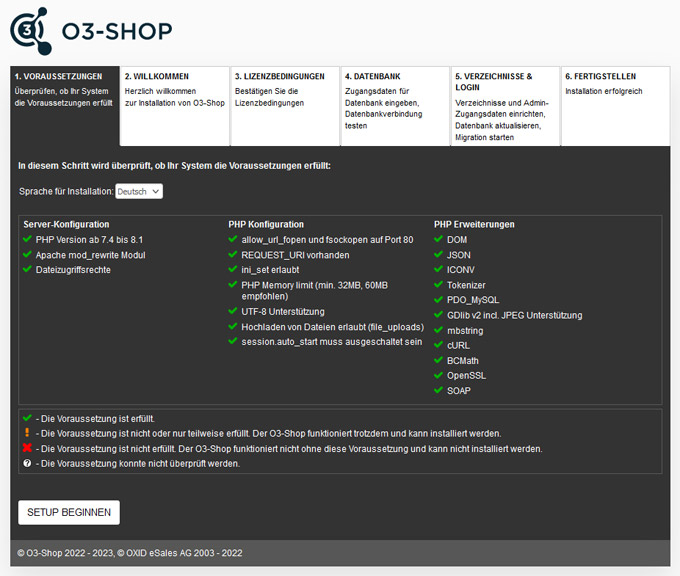
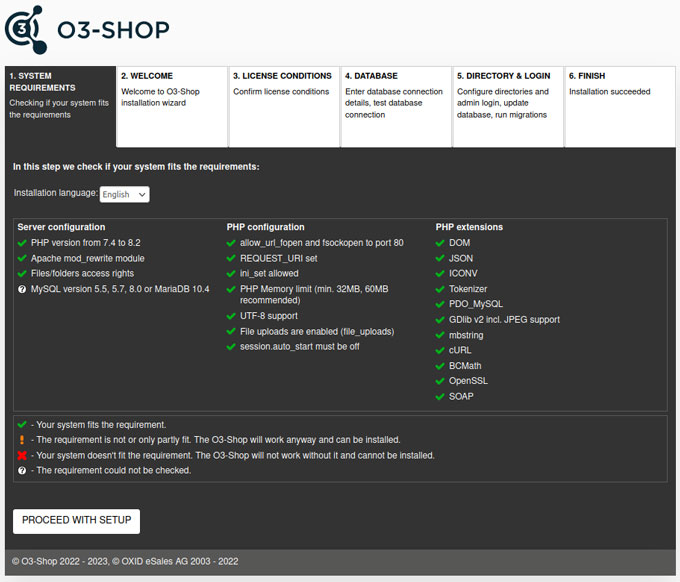
add new system requirements, change small issues

Changed region(s): [[0.0, 0.0, 1.0, 1.0], [0.3088, 0.375, 0.8647, 0.6875], [0.9882, 0.125, 1.0, 0.1562]]

diff --git a/source/user/installation/NewInstallation/PrepareInstallation.md b/source/user/installation/NewInstallation/PrepareInstallation.md
@@ -15,15 +15,15 @@ For installation instructions, see the Getting Started section of the Composer p
 The shop files are provided by Composer. The shop files are stored in a subdirectory that is specified in the command with **your_project_name**. This is based on the directory in which the command is issued in the shell. The parameter **--no-dev** is specified if the development-related files are not needed.
 
 ```
-composer create-project --no-dev o3-shop/o3-shop your_project_name 1.0
+composer create-project --no-dev o3-shop/o3-shop your_project_name
 ```
 
 ```{note}
 Use a different version constraint to install a different project version.
 
-- `1.0` for the latest official release of the 1.0 branch
 - leave empty for the latest official release ever
-- `dev-b-1.0-ce-nightly` for the latest development versions of the 1.0 branch. This is intended for development and testing purposes and should not be used for productive use!
+- e.g. `1.2` for the latest official release of the 1.0 branch
+- `dev-b-1.x-ce-nightly` for the latest development versions of the 1.x branch. This is intended for development and testing purposes and should not be used for productive use!
 ```
 
 After Composer has finished its work, the new directory named *your_project_name* exists. This is the root directory of the project and contains all files needed for the installation of the O3-Shop.
@@ -53,11 +53,11 @@ For the web-based setup, the HTTP server must have write access to the following
 
 ## Create database
 
-O3-Shop requires a MySQL database to store items, categories, customer and order data and other information.
+O3-Shop requires a MySQL / MariaDB database to store items, categories, customer and order data and other information.
 
 Most web hosts offer database access via a special website, such as phpMyAdmin. If you need help with this, please contact your hosting partner or Internet Service Provider (ISP).
 
-Create a new MySQL database. You can choose the name of the database freely, for example `o3_shop`.
+Create a new MySQL or MariaDB database. You can choose the name of the database freely, for example `o3_shop`.
 
 Remember the name of the database and the access data to the database (user name and password).
 

diff --git a/source/user/installation/Migration/index.md b/source/user/installation/Migration/index.md
@@ -8,10 +8,13 @@ Please ensure that *all* requirements are met beforehand:
 
 - an error-free Composer installation of the OXID eShop
 - OXID eShop in version 6.4.3
+
   For older shop versions, please carry out the update offered by OXID eSales to the named shop version beforehand. Newer OXID shops (> 6.4.3) cannot be migrated.
 - OXID eShop Community Edition 
+
   The migration only supports Community Editions. The migration of Professional or Enterprise Editions is not supported.
 - The OXID eShop was installed via the package “oxid-esales/oxideshop-project”.
+
   Check if “oxid-esales/oxideshop-project” is mentioned as “name” in the file “composer.json” in the main directory of your shop. If you use a different package composition, please check its components manually to see if they can be replaced.
 
 ## Updating the system environment

diff --git a/source/user/installation/NewInstallation/NewInstallation.md b/source/user/installation/NewInstallation/NewInstallation.md
@@ -1,6 +1,6 @@
 # Installation from scratch
 
-Learn how to install the O3-Shop 1.0 from scratch.
+Learn how to install the O3-Shop from scratch.
 
 Retrieve the files needed for the shop with the help of Composer, the dependency manager for PHP.
 
@@ -10,7 +10,7 @@ Then run the web-based setup and install the shop.
 
 ## Ensure server and system requirements
 
-**Contents**: Server, shared hosting, managed server, server farm with load balancing and database cluster, Linux, web server, Apache 2.2 + 2.4, MySQL 5.5 + 5.7, MariaDB 10.4, PHP 8.1 and 7.4, Composer, OpenSSL.
+**Contents**: Server, shared hosting, managed server, server farm with load balancing and database cluster, Linux, web server, Apache 2.2 + 2.4, MySQL 5.5, 5.7 or 8.0, MariaDB 10.4, PHP from 7.4 to 8.2, Composer, OpenSSL.
 
 [Read the article](SystemRequirements.md)
 

diff --git a/source/user/installation/NewInstallation/SystemRequirements.md b/source/user/installation/NewInstallation/SystemRequirements.md
@@ -38,7 +38,7 @@ A decoder (Zend Guard Loader, ionCube Loader, ...) is not required, as O3-Shop i
 
 ## Database
 
-- MySQL 5.5 or 5.7
+- MySQL 5.5, 5.7 or 8.0
 - MariaDB (tested with MariaDB 10.4)
 
 The database user needs sufficient authorisation to be able to create a database during the installation, if it does not already exist. The authorisation must also allow the creation of views.
@@ -47,7 +47,7 @@ The transaction isolation level must be left at the default value *REPEATABLE RE
 
 ## PHP
 
-- PHP versions 7.4, 8.0 or 8.1
+- PHP versions 7.4, 8.0, 8.1 or 8.2
 - A *memory_limit* of 60 MB, but at least 32 MB, is recommended.
 - The PHP setting *session.auto_start* in the ***php.ini*** file should be disabled (OFF)
 - File uploads should be enabled in PHP

diff --git a/source/user/installation/NewInstallation/RunSetup.md b/source/user/installation/NewInstallation/RunSetup.md
@@ -55,7 +55,7 @@ Create a database or integrate an existing database.
   You have the following options:
 
   - If the database and web server are on the same server, leave the default value localhost. This is the default for most shops.
-  - If your database is outsourced, enter the host name or IP address of your database server. If you need to specify a port, it is placed after the host name and a colon (host name:port).
+  - If your database is outsourced, enter the host name or IP address of your database server.
 
 **Database Name**
 

diff --git a/source/welcome.md b/source/welcome.md
@@ -1,3 +1,3 @@
 # Welcome
 
-This user documentation provides information on the O3 shop 1.0 for shop operators, shop administrators and technicians. The information covers topics such as new installation and update, configuration, setup and operation of the O3 shop.
+This user documentation provides information on the O3 shop for shop operators, shop administrators and technicians. The information covers topics such as new installation and update, configuration, setup and operation of the O3 shop.
